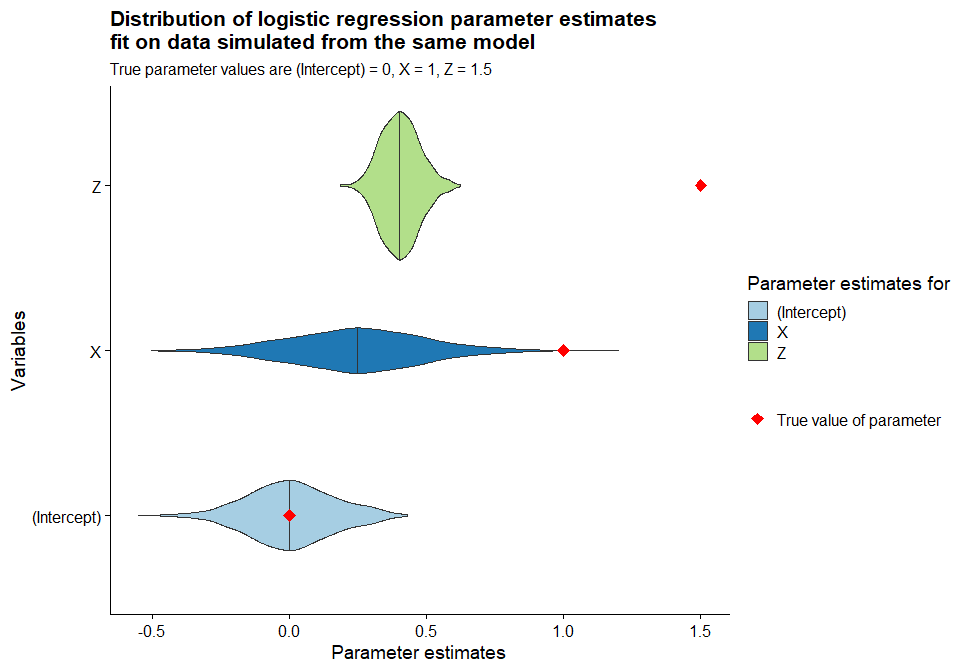
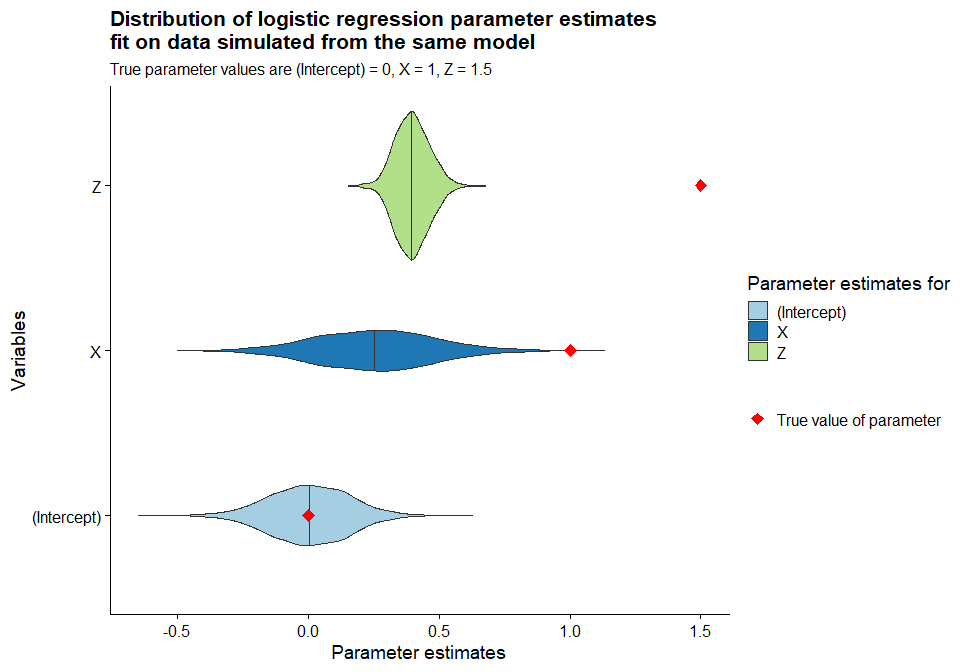
Minor typos, increased # of sims for the hell of it.

diff --git a/Notebooks/Simulating-Collapsibility.md b/Notebooks/Simulating-Collapsibility.md
@@ -36,7 +36,7 @@ theme_set(cowplot::theme_cowplot())
 # Misc
 source(here("R","sim-functions.R"))
 set.seed(1)
-n_simulations = 1000
+n_simulations = 2000
 ```
 
 I’m going to walk through a few different scenarios with different data
@@ -78,7 +78,7 @@ $$
 \end{aligned}
 $$
 
-This process is repeated until 1000 datasets of size 1,000 are
+This process is repeated until 1000 datasets of size 2,000 are
 generated. I then fit the same linear model to each simulated dataset,
 and plot the distribution of the results and provide a table of summary
 stats.
@@ -133,10 +133,10 @@ coef_df %>%
 
 | Variable    | Parameter estimate | True value |       Bias |
 |:------------|-------------------:|-----------:|-----------:|
-| (Intercept) |          0.0023046 |        0.0 |  0.0023046 |
-| W           |          2.9840192 |        3.0 | -0.0159808 |
-| X           |          1.0034573 |        1.0 |  0.0034573 |
-| Z           |          1.4959494 |        1.5 | -0.0040506 |
+| (Intercept) |         -0.0006715 |        0.0 | -0.0006715 |
+| W           |          2.9863047 |        3.0 | -0.0136953 |
+| X           |          1.0019431 |        1.0 |  0.0019431 |
+| Z           |          1.5033687 |        1.5 |  0.0033687 |
 
 Summary table for parameters of $n = 1000$ linear models fit on
 simulated data
@@ -214,10 +214,10 @@ coef_df %>%
 
 | Variable    | Parameter estimate | True value |       Bias |
 |:------------|-------------------:|-----------:|-----------:|
-| (Intercept) |          0.0333366 |        0.0 |  0.0333366 |
-| W           |          2.9993847 |        3.0 | -0.0006153 |
-| X           |          0.9296940 |        1.0 | -0.0703060 |
-| Z           |          1.5169205 |        1.5 |  0.0169205 |
+| (Intercept) |          0.0118017 |        0.0 |  0.0118017 |
+| W           |          2.9995821 |        3.0 | -0.0004179 |
+| X           |          1.0079182 |        1.0 |  0.0079182 |
+| Z           |          1.4907873 |        1.5 | -0.0092127 |
 
 Summary table for parameters of $n = 1000$ linear models fit on
 simulated data with confounder
@@ -250,7 +250,7 @@ results <- simulate_multiple_datasets(
 ```
 
 ``` r
-coef_df <- coef_df <- true_coefs %>%
+coef_df <- true_coefs %>%
   get_coef_df(results,.)
 
 plot_coefficient_distribution(
@@ -269,9 +269,9 @@ coef_df %>%
 
 | Variable    | Parameter estimate | True value |       Bias |
 |:------------|-------------------:|-----------:|-----------:|
-| (Intercept) |         -0.0118844 |        0.0 | -0.0118844 |
-| X           |          1.0254737 |        1.0 |  0.0254737 |
-| Z           |          1.4841530 |        1.5 | -0.0158470 |
+| (Intercept) |          0.0171784 |        0.0 |  0.0171784 |
+| X           |          0.9880821 |        1.0 | -0.0119179 |
+| Z           |          1.5011808 |        1.5 |  0.0011808 |
 
 Summary table for parameters of $n = 1000$ linear models fit on
 simulated data with confounder present and prognostic variable omitted
@@ -338,7 +338,7 @@ results <- simulate_multiple_datasets(
 ```
 
 ``` r
-coef_df <- coef_df <- true_coefs %>%
+coef_df <- true_coefs %>%
   get_coef_df(results,.)
 
 plot_coefficient_distribution(
@@ -354,12 +354,12 @@ coef_df %>%
   summarize_coef_df(caption = "Summary table for parameters of $n = 1000$ logistic GLMs fit on simulated data")
 ```
 
-| Variable    | Parameter estimate | True value |       Bias |
-|:------------|-------------------:|-----------:|-----------:|
-| (Intercept) |         -0.0010008 |        0.0 | -0.0010008 |
-| W           |          3.0953580 |        3.0 |  0.0953580 |
-| X           |          1.0539721 |        1.0 |  0.0539721 |
-| Z           |          1.5498684 |        1.5 |  0.0498684 |
+| Variable    | Parameter estimate | True value |      Bias |
+|:------------|-------------------:|-----------:|----------:|
+| (Intercept) |          0.0018037 |        0.0 | 0.0018037 |
+| W           |          3.1080864 |        3.0 | 0.1080864 |
+| X           |          1.0384740 |        1.0 | 0.0384740 |
+| Z           |          1.5562909 |        1.5 | 0.0562909 |
 
 Summary table for parameters of $n = 1000$ logistic GLMs fit on
 simulated data
@@ -405,7 +405,7 @@ results <- simulate_multiple_datasets(
 ```
 
 ``` r
-coef_df <- coef_df <- true_coefs %>%
+coef_df <- true_coefs %>%
   get_coef_df(results,.)
 
 plot_coefficient_distribution(
@@ -421,12 +421,12 @@ coef_df %>%
   summarize_coef_df(caption = "Summary table for parameters of $n = 1000$ logistic GLMs fit on simulated data with confounders")
 ```
 
-| Variable    | Parameter estimate | True value |       Bias |
-|:------------|-------------------:|-----------:|-----------:|
-| (Intercept) |         -0.0118677 |        0.0 | -0.0118677 |
-| W           |          3.1185125 |        3.0 |  0.1185125 |
-| X           |          1.0791976 |        1.0 |  0.0791976 |
-| Z           |          1.5507121 |        1.5 |  0.0507121 |
+| Variable    | Parameter estimate | True value |      Bias |
+|:------------|-------------------:|-----------:|----------:|
+| (Intercept) |          0.0026718 |        0.0 | 0.0026718 |
+| W           |          3.1079115 |        3.0 | 0.1079115 |
+| X           |          1.0269148 |        1.0 | 0.0269148 |
+| Z           |          1.5506238 |        1.5 | 0.0506238 |
 
 Summary table for parameters of $n = 1000$ logistic GLMs fit on
 simulated data with confounders
@@ -456,7 +456,7 @@ results <- simulate_multiple_datasets(
 ```
 
 ``` r
-coef_df <- coef_df <- true_coefs %>%
+coef_df <- true_coefs %>%
   get_coef_df(results,.)
 
 plot_coefficient_distribution(
@@ -474,11 +474,14 @@ coef_df %>%
 
 | Variable    | Parameter estimate | True value |       Bias |
 |:------------|-------------------:|-----------:|-----------:|
-| (Intercept) |          0.0064395 |        0.0 |  0.0064395 |
-| X           |          0.2457032 |        1.0 | -0.7542968 |
-| Z           |          0.4046214 |        1.5 | -1.0953786 |
+| (Intercept) |          0.0038391 |        0.0 |  0.0038391 |
+| X           |          0.2542688 |        1.0 | -0.7457312 |
+| Z           |          0.3978926 |        1.5 | -1.1021074 |
 
 Summary table for parameters of $n = 1000$ logistic GLMs fit on
 simulated data with confounders and prognostic variable omitted.
 
-The estimated coefficients are now way off (and in the wrong direction)!
+The estimated coefficients are now way off, even though we conditioned
+on the only confounder! The non-collapsibility of logistic regression
+implies that we need to condition on all variables that contribute to
+variation in $Y$.

diff --git a/README.md b/README.md
@@ -7,3 +7,8 @@
 <!-- badges: end -->
 
 An exploration via simulation of what collapsibility means.
+
+## To-Do
+
+- How does non-collapsibility impact predictions? Do some exploration
+  with the `marginaleffects` package.
